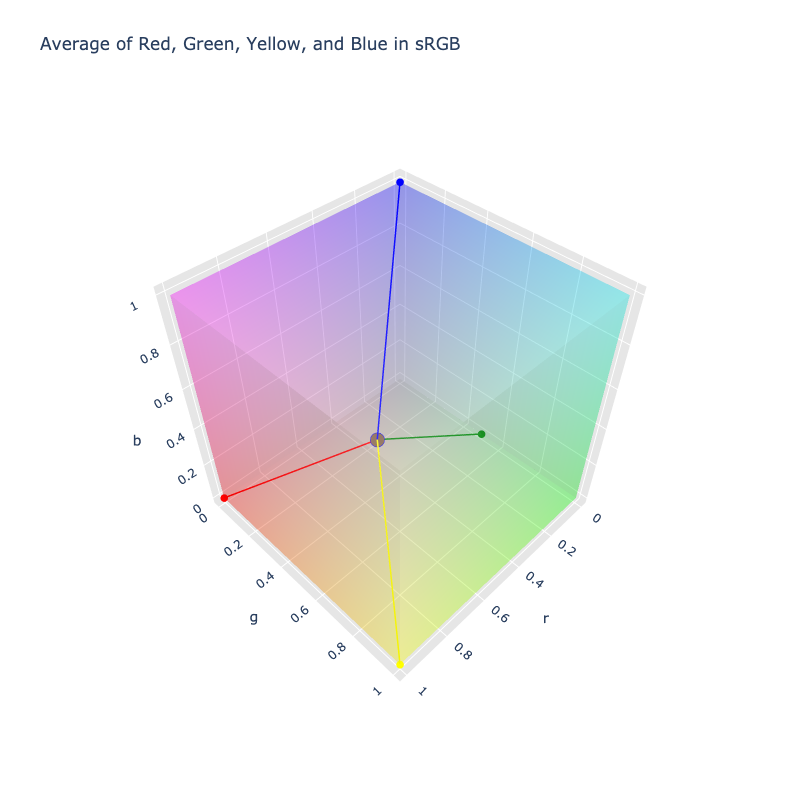
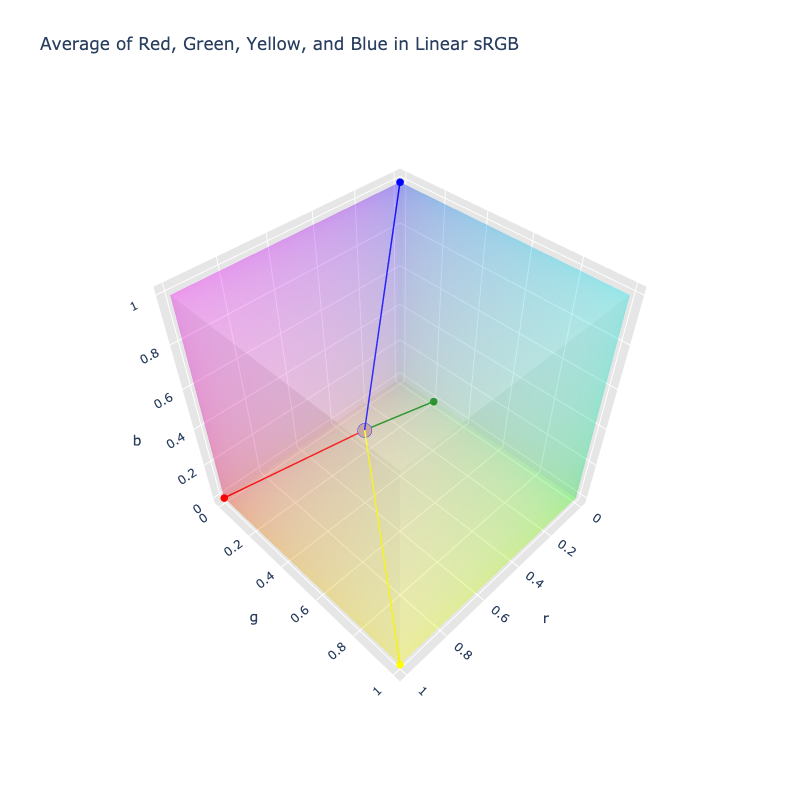
Fix some typos and add cylindrical averaging diagram

diff --git a/docs/src/markdown/average.md b/docs/src/markdown/average.md
@@ -6,21 +6,23 @@ and averaging each channel independently. Additionally, by default, transparency
 premultiplication which weights the colors such that more opaque colors have a greater significance in the mixing vs
 more translucent colors.
 
-![Average RGB](images/avg-rgb.png)
-
-
 Averaging under ColorAide can take as many colors as desired and will return a color that represents the average. This
-is not to be confused with interpolation which employs a different technique. One thing that sets it apart from
-interpolation is that when performing the operation, the order of the colors does not matter and will yield the same
-results even the colors are shuffled.
+approach to mixing is not to be confused with interpolation which employs a different technique. One thing that sets it
+apart from interpolation is that when performing the operation, the order of the colors does not matter and will yield
+the same results even if the colors are shuffled.
 
 Averaging can be used as a way to mix multiple colors into one color or simply determine what the overall average color
 is from a set of colors. Results are subject to the geometry of the color space in which the average is performed.
 
 ## Rectangular Space Averaging
 
-ColorAide, by default, averages in the rectangular Linear sRGB color spaces. If desired, other color spaces can be used.
-Results will vary due to the geometry of the color space being used.
+ColorAide, by default, averages colors in the rectangular Linear sRGB color spaces. For most, averaging in rectangular
+spaces would most likely be the common approach.
+
+![Average RGB](images/avg-rgb.png)
+
+While linear sRGB is the default color space when averaging, other color spaces can be used. Results will vary due to
+the geometry of the color space being used.
 
 ```py play
 Color.average(['red', 'blue'])
@@ -37,10 +39,14 @@ Color.average(['red', 'yellow', 'orange', 'green'])
 ## Cylindrical Space Averaging
 
 ColorAide can also average colors in cylindrical spaces. When applying averaging in a cylindrical space, hues will be
-averaged taking the circular mean. Due the difference in approach, colors can be quite different.
+averaged taking the circular mean. Due the difference in approach, color averaging in a cylindrical space can be quite
+different.
+
+![Average HSL](images/avg-hsl.png)
+
+To perform averaging in a cylindrical/polar space, simply specify the space when averaging.
 
 ```py play
-Color.average(['purple', 'green', 'blue'])
 Color.average(['purple', 'green', 'blue'], space='hsl')
 ```
 
